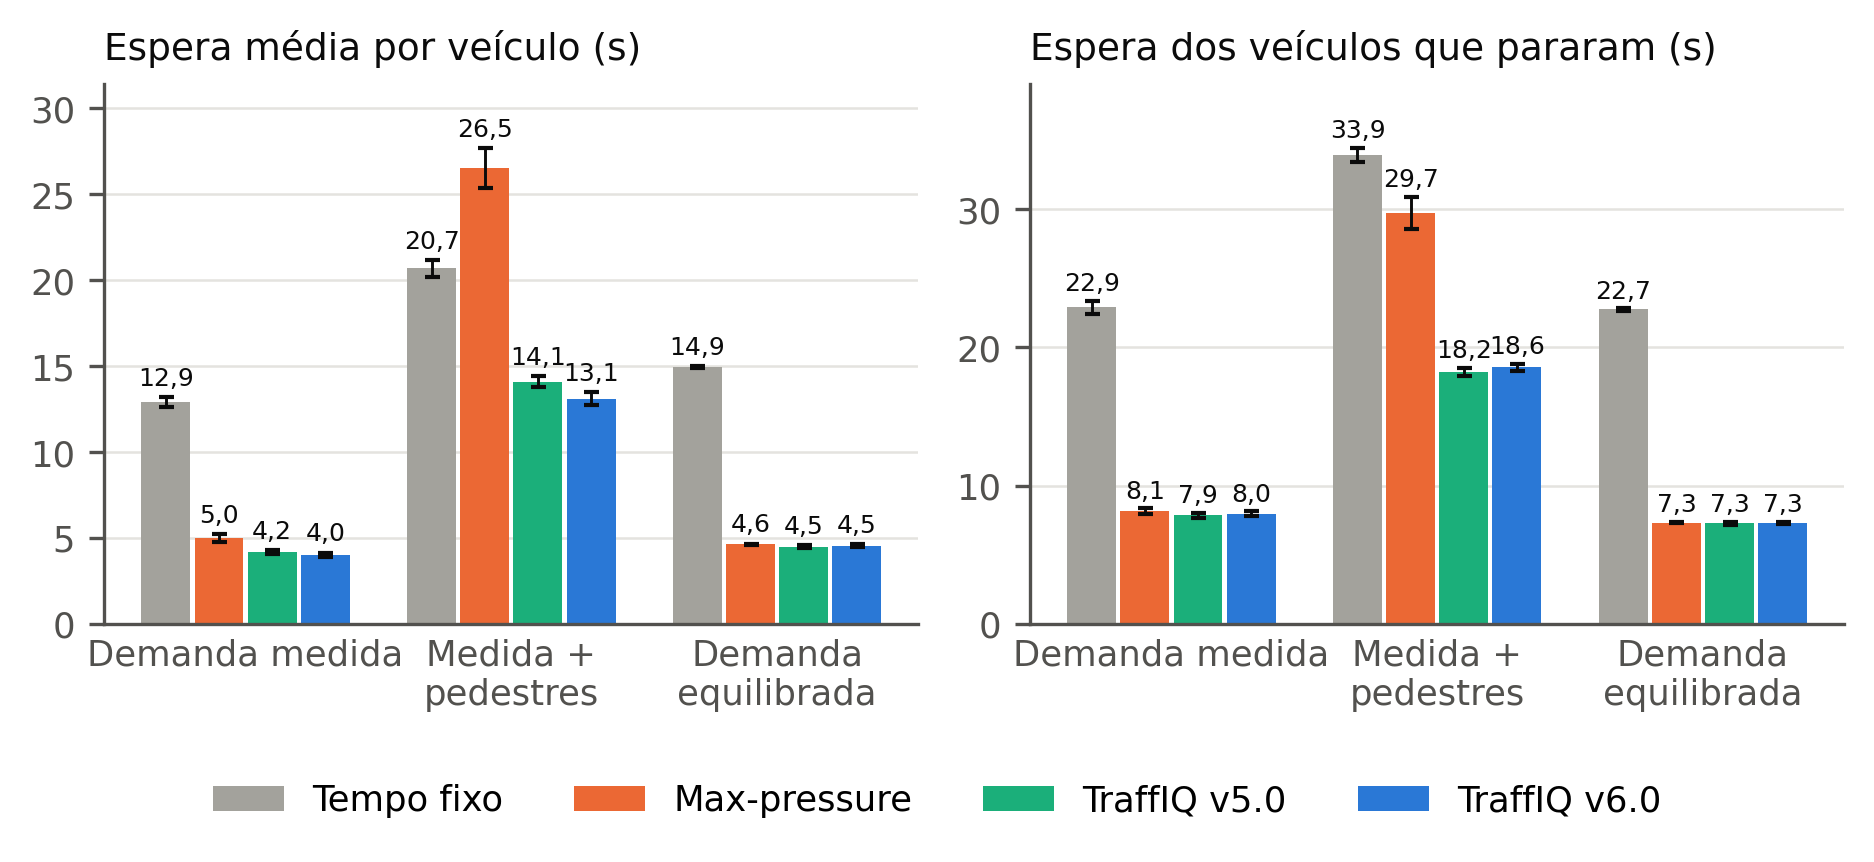
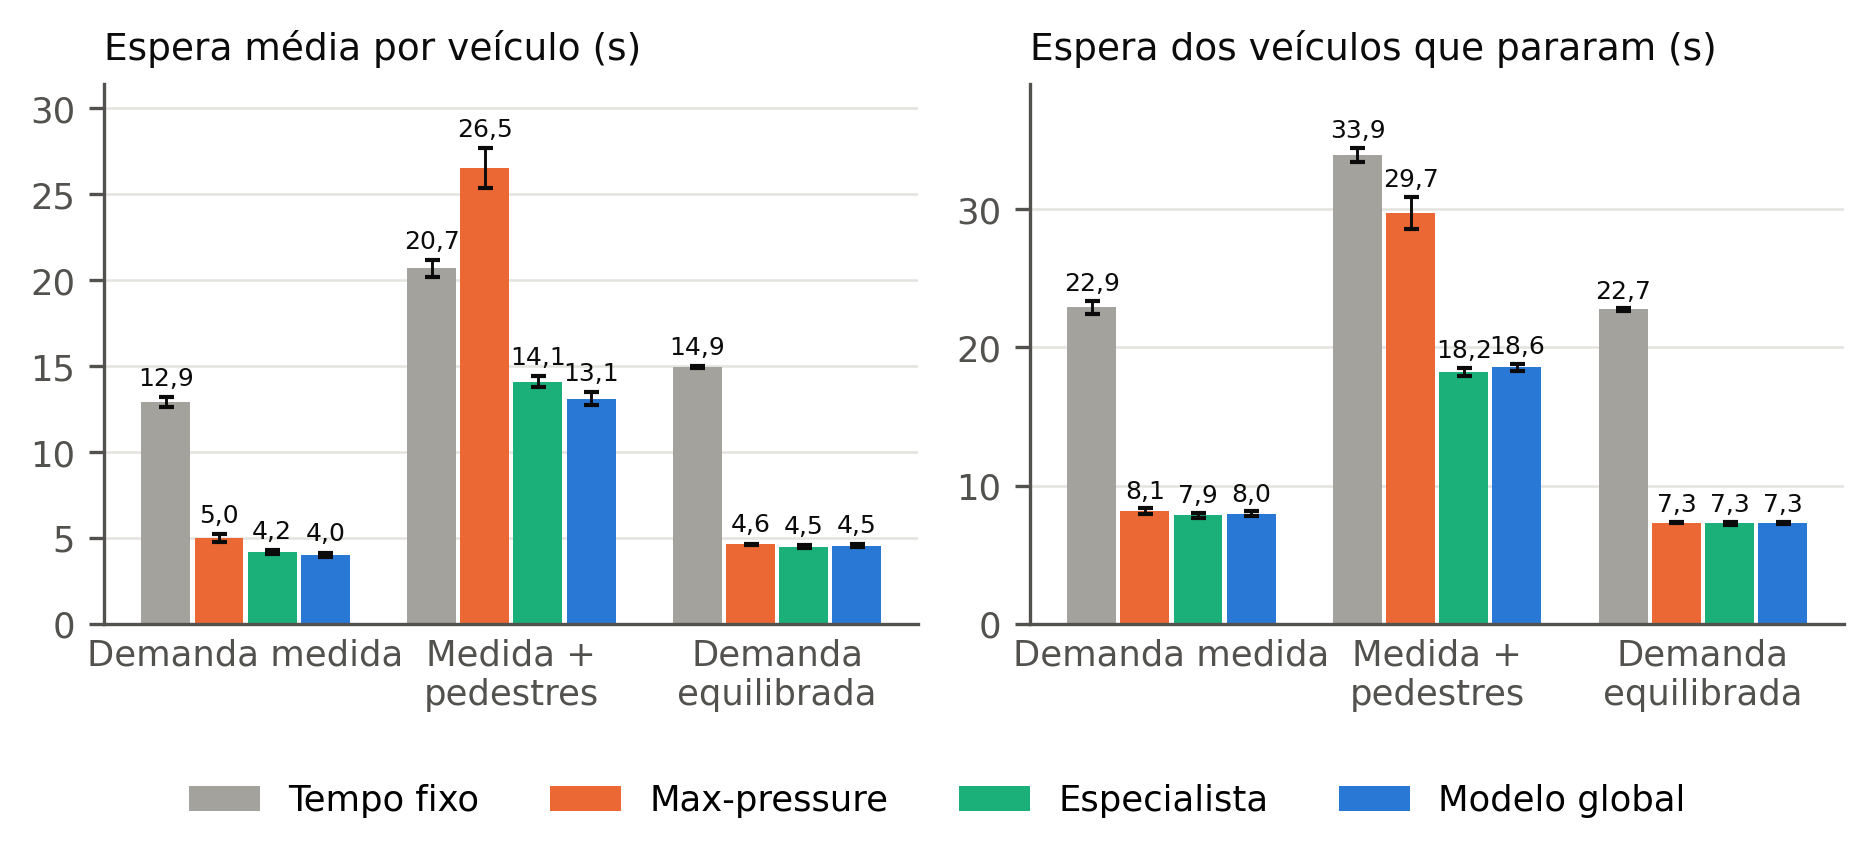
docs: rótulos descritivos (especialista e modelo global) nas figuras do artigo

Changed region(s): [[0.0928, 0.9049, 0.6809, 0.9652], [0.7118, 0.9049, 0.8975, 0.9652]]

diff --git a/python/experiments/plot_article_figures.py b/python/experiments/plot_article_figures.py
@@ -2,12 +2,12 @@
 
 Lê os JSONs de ``results/evaluation`` (percepção *ground truth*, seeds 201–210,
 300 s de aquecimento e 1800 s de controle), faz o teste t pareado seed a seed
-do modelo global (TraffIQ v6.0) contra cada controlador e grava:
+do modelo global contra cada controlador e grava:
 
 - ``docs/artigo/figuras/*.png`` (300 dpi, largura de coluna do artigo);
 - ``docs/artigo/estatisticas.json`` e ``docs/artigo/estatisticas.md``.
 
-Rótulos seguem o produto (TraffIQ v5.0 = DQN estado v2; v6.0 = modelo global).
+Rótulos descritivos: "Especialista" = DQN estado v2 (TraffIQ v5.0); "Modelo global" = TraffIQ v6.0.
 """
 
 from __future__ import annotations
@@ -29,7 +29,7 @@ from scipy import stats  # noqa: E402
 COLORS = {"baseline": "#a3a29c", "max_pressure": "#eb6834", "v2": "#1baf7a", "global": "#2a78d6",
           "global_rl": "#6250d6", "v1": "#eda100"}
 LABELS = {"baseline": "Tempo fixo", "max_pressure": "Max-pressure", "v1": "Regra de fila (v2.0)",
-          "v2": "TraffIQ v5.0", "global": "TraffIQ v6.0", "global_rl": "v6.0 sem pedestres no treino"}
+          "v2": "Especialista", "global": "Modelo global", "global_rl": "Modelo global (anterior)"}
 TEXT = "#0b0b0b"
 MUTED = "#52514e"
 GRID = "#e4e3df"
@@ -176,7 +176,7 @@ def figure_training(log: Path, output: Path) -> None:
         ax.axhline(reference[policy], color=COLORS[name], linewidth=1.4, linestyle="--", zorder=1)
         ax.text(episodes[-1] + 8, reference[policy], LABELS[name], va="center", fontsize=7.5, color=TEXT)
     ax.plot(episodes, waits, color=COLORS["global"], linewidth=2, marker="o", markersize=4, zorder=3, label=LABELS["global"])
-    ax.text(episodes[-1] + 8, waits[-1], "TraffIQ v6.0", va="center", fontsize=7.5, color=TEXT)
+    ax.text(episodes[-1] + 8, waits[-1], "Modelo global", va="center", fontsize=7.5, color=TEXT)
     ax.scatter([episodes[best]], [waits[best]], s=70, facecolor="none", edgecolor=TEXT, linewidth=1, zorder=4)
     ax.annotate("modelo escolhido", (episodes[best], waits[best]), xytext=(0, -18), textcoords="offset points",
                 ha="center", fontsize=7, color=MUTED)
@@ -241,10 +241,10 @@ def figure_architecture(output: Path) -> None:
     box(ax, (middle, 2.6), (w, h), "Unity\ngêmeo digital 3D\n(3 câmeras)", aqua, True)
     box(ax, (right, 2.6), (w, h), "YOLOv8 + ByteTrack\ndetecção e rastreamento\nde veículos", orange, True)
     box(ax, (right, 0.3), (w, h), "Atributos por faixa\n(ROIs de 60 m e\nhomografia)", orange)
-    box(ax, (middle, 0.3), (w, h), "TraffIQ (DQN)\nescolhe a próxima fase", blue, True)
+    box(ax, (middle, 0.3), (w, h), "Agente DQN\nescolhe a próxima fase", blue, True)
     box(ax, (left, 0.3), (w, h), "Camada de segurança\nverde mín./máx., amarelo,\npedestres e viaturas", gray)
-    arrow(ax, (left + w, 3.15), (middle, 3.15), "estado (UDP)")
-    arrow(ax, (middle + w, 3.15), (right, 3.15), "imagens (TCP)")
+    arrow(ax, (left + w, 3.15), (middle, 3.15), "estado")
+    arrow(ax, (middle + w, 3.15), (right, 3.15), "imagens")
     arrow(ax, (right + w / 2, 2.6), (right + w / 2, 1.4))
     arrow(ax, (right, 0.85), (middle + w, 0.85), "filas e esperas")
     arrow(ax, (middle, 0.85), (left + w, 0.85), "fase escolhida")
@@ -288,15 +288,15 @@ def p_text(p: float) -> str:
 
 def markdown(sp: dict[str, Any], generic: dict[str, Any]) -> str:
     lines = ["# Estatísticas do artigo (10 seeds, 201–210, percepção ground truth)", "",
-             "Média [IC 95%] por controlador; teste t pareado do TraffIQ v6.0 contra cada um "
-             "(diferença negativa = v6.0 espera menos).", ""]
+             "Média [IC 95%] por controlador; teste t pareado do modelo global contra cada um "
+             "(diferença negativa = modelo global espera menos).", ""]
     for title, block in [*((f"SP `{k}`", sp[k]) for k in sp), *((f"`{k}`", generic[k]) for k in generic)]:
         lines += [f"## {title}", "", "| Controlador | Espera média (s) | Espera parado (s) | Fila de inserção |", "|---|---|---|---|"]
         for name, summary in block["summary"].items():
             cells = [f"{fmt(summary[m]['mean'])} ± {fmt(summary[m]['ci95'])}" if m in summary else "—"
                      for m in (WAIT, STOPPED, "mean_pending_vehicles")]
             lines.append(f"| {LABELS[name]} | {' | '.join(cells)} |")
-        lines += ["", "| v6.0 contra | Δ espera média [IC 95%] | p | Δ espera parado [IC 95%] | p | seeds em que a v6.0 vence |",
+        lines += ["", "| Modelo global contra | Δ espera média [IC 95%] | p | Δ espera parado [IC 95%] | p | seeds em que o modelo global vence |",
                   "|---|---|---|---|---|---|"]
         for reference, result in block["paired"].items():
             w, s = result[WAIT], result[STOPPED]

diff --git a/docs/artigo/estatisticas.md b/docs/artigo/estatisticas.md
@@ -1,6 +1,6 @@
 # Estatísticas do artigo (10 seeds, 201–210, percepção ground truth)
 
-Média [IC 95%] por controlador; teste t pareado do TraffIQ v6.0 contra cada um (diferença negativa = v6.0 espera menos).
+Média [IC 95%] por controlador; teste t pareado do modelo global contra cada um (diferença negativa = modelo global espera menos).
 
 ## SP `calibrated`
 
@@ -8,18 +8,18 @@ Média [IC 95%] por controlador; teste t pareado do TraffIQ v6.0 contra cada um 
 |---|---|---|---|
 | Tempo fixo | 12,9 ± 0,3 | 22,9 ± 0,5 | 0,2 ± 0,1 |
 | Regra de fila (v2.0) | 4,3 ± 0,2 | 7,6 ± 0,2 | 0,0 ± 0,0 |
-| TraffIQ v5.0 | 4,2 ± 0,1 | 7,9 ± 0,2 | 0,0 ± 0,0 |
+| Especialista | 4,2 ± 0,1 | 7,9 ± 0,2 | 0,0 ± 0,0 |
 | Max-pressure | 5,0 ± 0,2 | 8,1 ± 0,2 | 0,0 ± 0,0 |
-| TraffIQ v6.0 | 4,0 ± 0,1 | 8,0 ± 0,2 | 0,0 ± 0,0 |
-| v6.0 sem pedestres no treino | 4,0 ± 0,2 | 7,9 ± 0,2 | 0,0 ± 0,0 |
+| Modelo global | 4,0 ± 0,1 | 8,0 ± 0,2 | 0,0 ± 0,0 |
+| Modelo global (anterior) | 4,0 ± 0,2 | 7,9 ± 0,2 | 0,0 ± 0,0 |
 
-| v6.0 contra | Δ espera média [IC 95%] | p | Δ espera parado [IC 95%] | p | seeds em que a v6.0 vence |
+| Modelo global contra | Δ espera média [IC 95%] | p | Δ espera parado [IC 95%] | p | seeds em que o modelo global vence |
 |---|---|---|---|---|---|
 | Tempo fixo | -8,92 [-9,23; -8,60] | < 0,001 | -14,96 [-15,48; -14,43] | < 0,001 | 10/10 |
 | Max-pressure | -0,98 [-1,28; -0,69] | < 0,001 | -0,18 [-0,44; 0,07] | 0,140 | 10/10 |
-| TraffIQ v5.0 | -0,17 [-0,34; 0,00] | 0,056 | 0,10 [-0,13; 0,33] | 0,353 | 8/10 |
+| Especialista | -0,17 [-0,34; 0,00] | 0,056 | 0,10 [-0,13; 0,33] | 0,353 | 8/10 |
 | Regra de fila (v2.0) | -0,25 [-0,53; 0,02] | 0,066 | 0,31 [0,17; 0,46] | < 0,001 | 7/10 |
-| v6.0 sem pedestres no treino | 0,04 [-0,14; 0,22] | 0,631 | 0,11 [-0,15; 0,36] | 0,375 | 3/10 |
+| Modelo global (anterior) | 0,04 [-0,14; 0,22] | 0,631 | 0,11 [-0,15; 0,36] | 0,375 | 3/10 |
 
 ## SP `calibrated_ped`
 
@@ -27,18 +27,18 @@ Média [IC 95%] por controlador; teste t pareado do TraffIQ v6.0 contra cada um 
 |---|---|---|---|
 | Tempo fixo | 20,7 ± 0,5 | 33,9 ± 0,5 | 0,8 ± 0,1 |
 | Regra de fila (v2.0) | 25,1 ± 1,5 | 29,2 ± 1,6 | 10,0 ± 5,3 |
-| TraffIQ v5.0 | 14,1 ± 0,3 | 18,2 ± 0,3 | 0,1 ± 0,0 |
+| Especialista | 14,1 ± 0,3 | 18,2 ± 0,3 | 0,1 ± 0,0 |
 | Max-pressure | 26,5 ± 1,2 | 29,7 ± 1,1 | 12,4 ± 4,8 |
-| TraffIQ v6.0 | 13,1 ± 0,4 | 18,6 ± 0,3 | 0,0 ± 0,0 |
-| v6.0 sem pedestres no treino | 16,7 ± 1,6 | 21,2 ± 1,5 | 0,8 ± 0,7 |
+| Modelo global | 13,1 ± 0,4 | 18,6 ± 0,3 | 0,0 ± 0,0 |
+| Modelo global (anterior) | 16,7 ± 1,6 | 21,2 ± 1,5 | 0,8 ± 0,7 |
 
-| v6.0 contra | Δ espera média [IC 95%] | p | Δ espera parado [IC 95%] | p | seeds em que a v6.0 vence |
+| Modelo global contra | Δ espera média [IC 95%] | p | Δ espera parado [IC 95%] | p | seeds em que o modelo global vence |
 |---|---|---|---|---|---|
 | Tempo fixo | -7,58 [-8,09; -7,08] | < 0,001 | -15,37 [-15,96; -14,77] | < 0,001 | 10/10 |
 | Max-pressure | -13,41 [-14,36; -12,46] | < 0,001 | -11,19 [-12,22; -10,17] | < 0,001 | 10/10 |
-| TraffIQ v5.0 | -0,99 [-1,45; -0,54] | < 0,001 | 0,35 [-0,01; 0,71] | 0,056 | 10/10 |
+| Especialista | -0,99 [-1,45; -0,54] | < 0,001 | 0,35 [-0,01; 0,71] | 0,056 | 10/10 |
 | Regra de fila (v2.0) | -12,05 [-13,28; -10,82] | < 0,001 | -10,70 [-12,16; -9,23] | < 0,001 | 10/10 |
-| v6.0 sem pedestres no treino | -3,65 [-5,10; -2,19] | < 0,001 | -2,69 [-4,16; -1,23] | 0,002 | 10/10 |
+| Modelo global (anterior) | -3,65 [-5,10; -2,19] | < 0,001 | -2,69 [-4,16; -1,23] | 0,002 | 10/10 |
 
 ## SP `original`
 
@@ -46,18 +46,18 @@ Média [IC 95%] por controlador; teste t pareado do TraffIQ v6.0 contra cada um 
 |---|---|---|---|
 | Tempo fixo | 14,9 ± 0,1 | 22,7 ± 0,1 | 19,1 ± 1,2 |
 | Regra de fila (v2.0) | 4,7 ± 0,1 | 7,4 ± 0,1 | 0,5 ± 0,0 |
-| TraffIQ v5.0 | 4,5 ± 0,1 | 7,3 ± 0,1 | 0,5 ± 0,0 |
+| Especialista | 4,5 ± 0,1 | 7,3 ± 0,1 | 0,5 ± 0,0 |
 | Max-pressure | 4,6 ± 0,1 | 7,3 ± 0,1 | 0,5 ± 0,0 |
-| TraffIQ v6.0 | 4,5 ± 0,1 | 7,3 ± 0,1 | 0,5 ± 0,0 |
-| v6.0 sem pedestres no treino | 4,6 ± 0,1 | 7,3 ± 0,1 | 0,5 ± 0,0 |
+| Modelo global | 4,5 ± 0,1 | 7,3 ± 0,1 | 0,5 ± 0,0 |
+| Modelo global (anterior) | 4,6 ± 0,1 | 7,3 ± 0,1 | 0,5 ± 0,0 |
 
-| v6.0 contra | Δ espera média [IC 95%] | p | Δ espera parado [IC 95%] | p | seeds em que a v6.0 vence |
+| Modelo global contra | Δ espera média [IC 95%] | p | Δ espera parado [IC 95%] | p | seeds em que o modelo global vence |
 |---|---|---|---|---|---|
 | Tempo fixo | -10,40 [-10,54; -10,25] | < 0,001 | -15,46 [-15,62; -15,30] | < 0,001 | 10/10 |
 | Max-pressure | -0,08 [-0,17; 0,01] | 0,069 | -0,04 [-0,14; 0,05] | 0,296 | 7/10 |
-| TraffIQ v5.0 | 0,04 [-0,03; 0,12] | 0,220 | 0,02 [-0,06; 0,10] | 0,664 | 3/10 |
+| Especialista | 0,04 [-0,03; 0,12] | 0,220 | 0,02 [-0,06; 0,10] | 0,664 | 3/10 |
 | Regra de fila (v2.0) | -0,12 [-0,25; 0,01] | 0,069 | -0,08 [-0,22; 0,05] | 0,182 | 7/10 |
-| v6.0 sem pedestres no treino | -0,02 [-0,08; 0,04] | 0,504 | -0,01 [-0,05; 0,03] | 0,695 | 3/10 |
+| Modelo global (anterior) | -0,02 [-0,08; 0,04] | 0,504 | -0,01 [-0,05; 0,03] | 0,695 | 3/10 |
 
 ## `cruz-assimetrico/baixa`
 
@@ -65,14 +65,14 @@ Média [IC 95%] por controlador; teste t pareado do TraffIQ v6.0 contra cada um 
 |---|---|---|---|
 | Tempo fixo | 21,7 ± 1,2 | 31,4 ± 1,1 | 0,0 ± 0,0 |
 | Max-pressure | 9,9 ± 0,5 | 15,1 ± 0,7 | 0,0 ± 0,0 |
-| TraffIQ v6.0 | 7,7 ± 0,2 | 12,6 ± 0,4 | 0,0 ± 0,0 |
-| v6.0 sem pedestres no treino | 6,4 ± 0,3 | 10,8 ± 0,4 | 0,0 ± 0,0 |
+| Modelo global | 7,7 ± 0,2 | 12,6 ± 0,4 | 0,0 ± 0,0 |
+| Modelo global (anterior) | 6,4 ± 0,3 | 10,8 ± 0,4 | 0,0 ± 0,0 |
 
-| v6.0 contra | Δ espera média [IC 95%] | p | Δ espera parado [IC 95%] | p | seeds em que a v6.0 vence |
+| Modelo global contra | Δ espera média [IC 95%] | p | Δ espera parado [IC 95%] | p | seeds em que o modelo global vence |
 |---|---|---|---|---|---|
 | Tempo fixo | -14,00 [-15,27; -12,74] | < 0,001 | -18,81 [-19,95; -17,67] | < 0,001 | 10/10 |
 | Max-pressure | -2,23 [-2,77; -1,69] | < 0,001 | -2,48 [-3,47; -1,49] | < 0,001 | 10/10 |
-| v6.0 sem pedestres no treino | 1,29 [0,97; 1,60] | < 0,001 | 1,73 [1,18; 2,28] | < 0,001 | 0/10 |
+| Modelo global (anterior) | 1,29 [0,97; 1,60] | < 0,001 | 1,73 [1,18; 2,28] | < 0,001 | 0/10 |
 
 ## `cruz-assimetrico/baixa+ped`
 
@@ -80,14 +80,14 @@ Média [IC 95%] por controlador; teste t pareado do TraffIQ v6.0 contra cada um 
 |---|---|---|---|
 | Tempo fixo | 30,6 ± 0,8 | 40,1 ± 0,5 | 0,0 ± 0,0 |
 | Max-pressure | 12,7 ± 1,0 | 18,3 ± 1,0 | 0,0 ± 0,0 |
-| TraffIQ v6.0 | 7,0 ± 0,4 | 11,6 ± 0,5 | 0,0 ± 0,0 |
-| v6.0 sem pedestres no treino | 8,3 ± 0,6 | 13,1 ± 0,7 | 0,0 ± 0,0 |
+| Modelo global | 7,0 ± 0,4 | 11,6 ± 0,5 | 0,0 ± 0,0 |
+| Modelo global (anterior) | 8,3 ± 0,6 | 13,1 ± 0,7 | 0,0 ± 0,0 |
 
-| v6.0 contra | Δ espera média [IC 95%] | p | Δ espera parado [IC 95%] | p | seeds em que a v6.0 vence |
+| Modelo global contra | Δ espera média [IC 95%] | p | Δ espera parado [IC 95%] | p | seeds em que o modelo global vence |
 |---|---|---|---|---|---|
 | Tempo fixo | -23,65 [-24,45; -22,85] | < 0,001 | -28,46 [-29,29; -27,62] | < 0,001 | 10/10 |
 | Max-pressure | -5,70 [-6,47; -4,94] | < 0,001 | -6,65 [-7,50; -5,79] | < 0,001 | 10/10 |
-| v6.0 sem pedestres no treino | -1,29 [-1,96; -0,63] | 0,002 | -1,44 [-2,12; -0,76] | < 0,001 | 9/10 |
+| Modelo global (anterior) | -1,29 [-1,96; -0,63] | 0,002 | -1,44 [-2,12; -0,76] | < 0,001 | 9/10 |
 
 ## `cruz-assimetrico/media`
 
@@ -95,14 +95,14 @@ Média [IC 95%] por controlador; teste t pareado do TraffIQ v6.0 contra cada um 
 |---|---|---|---|
 | Tempo fixo | 31,8 ± 0,8 | 38,5 ± 0,8 | 0,1 ± 0,2 |
 | Max-pressure | 20,3 ± 1,0 | 25,2 ± 1,1 | 0,5 ± 0,8 |
-| TraffIQ v6.0 | 16,8 ± 2,6 | 21,0 ± 2,6 | 0,0 ± 0,0 |
-| v6.0 sem pedestres no treino | 15,6 ± 1,0 | 19,4 ± 1,0 | 0,0 ± 0,0 |
+| Modelo global | 16,8 ± 2,6 | 21,0 ± 2,6 | 0,0 ± 0,0 |
+| Modelo global (anterior) | 15,6 ± 1,0 | 19,4 ± 1,0 | 0,0 ± 0,0 |
 
-| v6.0 contra | Δ espera média [IC 95%] | p | Δ espera parado [IC 95%] | p | seeds em que a v6.0 vence |
+| Modelo global contra | Δ espera média [IC 95%] | p | Δ espera parado [IC 95%] | p | seeds em que o modelo global vence |
 |---|---|---|---|---|---|
 | Tempo fixo | -15,05 [-17,80; -12,29] | < 0,001 | -17,53 [-20,31; -14,75] | < 0,001 | 10/10 |
 | Max-pressure | -3,48 [-5,90; -1,07] | 0,010 | -4,20 [-6,73; -1,68] | 0,004 | 9/10 |
-| v6.0 sem pedestres no treino | 1,21 [-1,52; 3,94] | 0,342 | 1,53 [-1,24; 4,31] | 0,243 | 7/10 |
+| Modelo global (anterior) | 1,21 [-1,52; 3,94] | 0,342 | 1,53 [-1,24; 4,31] | 0,243 | 7/10 |
 
 ## `cruz-assimetrico/media+ped`
 
@@ -110,14 +110,14 @@ Média [IC 95%] por controlador; teste t pareado do TraffIQ v6.0 contra cada um 
 |---|---|---|---|
 | Tempo fixo | 50,4 ± 2,5 | 55,4 ± 2,1 | 7,7 ± 4,9 |
 | Max-pressure | 25,4 ± 0,9 | 30,4 ± 0,9 | 2,0 ± 1,6 |
-| TraffIQ v6.0 | 21,3 ± 2,4 | 26,0 ± 2,5 | 0,1 ± 0,1 |
-| v6.0 sem pedestres no treino | 23,2 ± 2,8 | 27,4 ± 2,6 | 1,3 ± 1,9 |
+| Modelo global | 21,3 ± 2,4 | 26,0 ± 2,5 | 0,1 ± 0,1 |
+| Modelo global (anterior) | 23,2 ± 2,8 | 27,4 ± 2,6 | 1,3 ± 1,9 |
 
-| v6.0 contra | Δ espera média [IC 95%] | p | Δ espera parado [IC 95%] | p | seeds em que a v6.0 vence |
+| Modelo global contra | Δ espera média [IC 95%] | p | Δ espera parado [IC 95%] | p | seeds em que o modelo global vence |
 |---|---|---|---|---|---|
 | Tempo fixo | -29,18 [-31,41; -26,95] | < 0,001 | -29,33 [-31,59; -27,07] | < 0,001 | 10/10 |
 | Max-pressure | -4,10 [-6,87; -1,34] | 0,008 | -4,36 [-7,18; -1,55] | 0,007 | 8/10 |
-| v6.0 sem pedestres no treino | -1,98 [-4,94; 0,98] | 0,165 | -1,42 [-4,35; 1,51] | 0,301 | 7/10 |
+| Modelo global (anterior) | -1,98 [-4,94; 0,98] | 0,165 | -1,42 [-4,35; 1,51] | 0,301 | 7/10 |
 
 ## `cruz-assimetrico/desbalanceada`
 
@@ -125,14 +125,14 @@ Média [IC 95%] por controlador; teste t pareado do TraffIQ v6.0 contra cada um 
 |---|---|---|---|
 | Tempo fixo | 33,7 ± 1,2 | 40,3 ± 1,0 | 25,2 ± 7,4 |
 | Max-pressure | 19,9 ± 0,4 | 24,1 ± 0,5 | 31,5 ± 8,6 |
-| TraffIQ v6.0 | 20,4 ± 1,7 | 24,6 ± 1,6 | 11,5 ± 6,3 |
-| v6.0 sem pedestres no treino | 19,6 ± 0,7 | 24,7 ± 0,9 | 17,6 ± 7,3 |
+| Modelo global | 20,4 ± 1,7 | 24,6 ± 1,6 | 11,5 ± 6,3 |
+| Modelo global (anterior) | 19,6 ± 0,7 | 24,7 ± 0,9 | 17,6 ± 7,3 |
 
-| v6.0 contra | Δ espera média [IC 95%] | p | Δ espera parado [IC 95%] | p | seeds em que a v6.0 vence |
+| Modelo global contra | Δ espera média [IC 95%] | p | Δ espera parado [IC 95%] | p | seeds em que o modelo global vence |
 |---|---|---|---|---|---|
 | Tempo fixo | -13,31 [-15,21; -11,42] | < 0,001 | -15,69 [-17,43; -13,96] | < 0,001 | 10/10 |
 | Max-pressure | 0,54 [-1,26; 2,34] | 0,515 | 0,48 [-1,33; 2,29] | 0,563 | 3/10 |
-| v6.0 sem pedestres no treino | 0,85 [-0,63; 2,33] | 0,226 | -0,09 [-1,48; 1,31] | 0,891 | 4/10 |
+| Modelo global (anterior) | 0,85 [-0,63; 2,33] | 0,226 | -0,09 [-1,48; 1,31] | 0,891 | 4/10 |
 
 ## `cruz-assimetrico/desbalanceada+ped`
 
@@ -140,12 +140,12 @@ Média [IC 95%] por controlador; teste t pareado do TraffIQ v6.0 contra cada um 
 |---|---|---|---|
 | Tempo fixo | 55,8 ± 2,8 | 61,6 ± 2,7 | 52,0 ± 8,8 |
 | Max-pressure | 21,1 ± 0,6 | 25,2 ± 0,9 | 43,6 ± 10,8 |
-| TraffIQ v6.0 | 21,0 ± 1,4 | 25,6 ± 1,3 | 19,6 ± 8,3 |
-| v6.0 sem pedestres no treino | 21,9 ± 0,8 | 26,8 ± 0,9 | 35,0 ± 10,2 |
+| Modelo global | 21,0 ± 1,4 | 25,6 ± 1,3 | 19,6 ± 8,3 |
+| Modelo global (anterior) | 21,9 ± 0,8 | 26,8 ± 0,9 | 35,0 ± 10,2 |
 
-| v6.0 contra | Δ espera média [IC 95%] | p | Δ espera parado [IC 95%] | p | seeds em que a v6.0 vence |
+| Modelo global contra | Δ espera média [IC 95%] | p | Δ espera parado [IC 95%] | p | seeds em que o modelo global vence |
 |---|---|---|---|---|---|
 | Tempo fixo | -34,78 [-38,23; -31,34] | < 0,001 | -35,99 [-39,25; -32,73] | < 0,001 | 10/10 |
 | Max-pressure | -0,06 [-1,79; 1,67] | 0,936 | 0,35 [-1,46; 2,17] | 0,669 | 6/10 |
-| v6.0 sem pedestres no treino | -0,88 [-2,57; 0,81] | 0,269 | -1,19 [-2,79; 0,42] | 0,128 | 6/10 |
+| Modelo global (anterior) | -0,88 [-2,57; 0,81] | 0,269 | -1,19 [-2,79; 0,42] | 0,128 | 6/10 |
 
